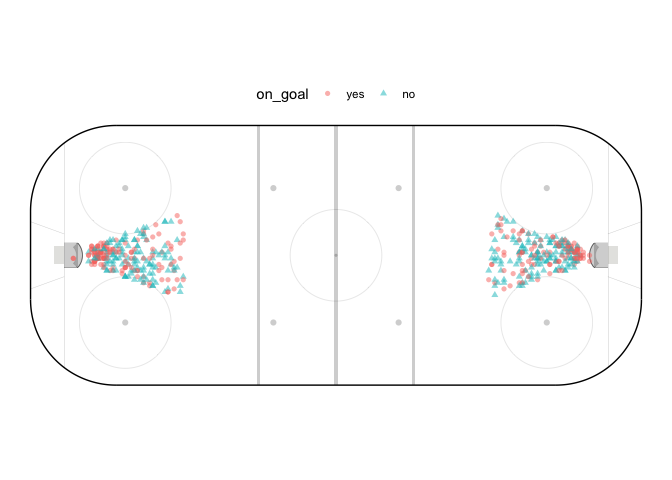
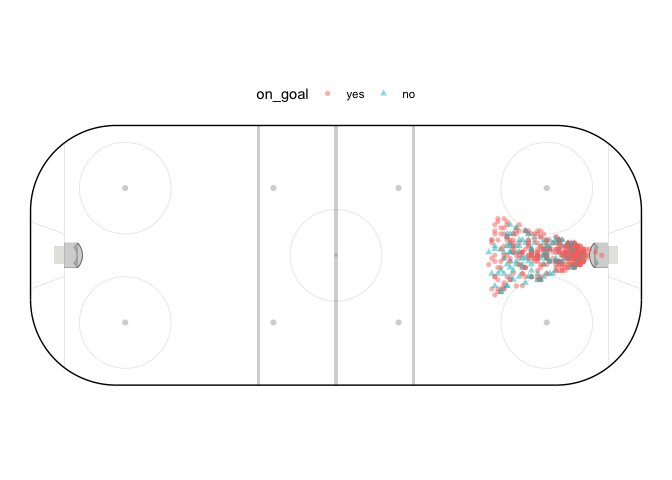
update readme

Changed region(s): [[0.7188, 0.4375, 0.9062, 0.625], [0.125, 0.4375, 0.2812, 0.625]]

diff --git a/README.md b/README.md
@@ -11,7 +11,7 @@ experimental](https://img.shields.io/badge/lifecycle-experimental-orange.svg)](h
 status](https://www.r-pkg.org/badges/version/ongoal)](https://CRAN.R-project.org/package=ongoal)
 <!-- badges: end -->
 
-ongoal makes 35572 data points available for Pittsburgh Penguins games
+ongoal makes 25324 data points available for Pittsburgh Penguins games
 where the it was determined whether a shot was on goal (i.e., made it to
 the goaltender) or not (i.e., missed or blocked). Data are from seasons
 2015-2016, 2016-2017, and 2017-2018.
@@ -36,29 +36,31 @@ Here’s a look at the data:
 ``` r
 library(ongoal)
 str(on_goal)
-#> Classes 'tbl_df', 'tbl' and 'data.frame':    35572 obs. of  22 variables:
-#>  $ on_goal          : Factor w/ 2 levels "yes","no": 1 1 1 1 1 1 1 2 1 2 ...
-#>  $ date_time        : POSIXct, format: "2018-04-11 23:08:36" "2018-04-11 23:08:48" ...
-#>  $ season           : Factor w/ 3 levels "20152016","20162017",..: 3 3 3 3 3 3 3 3 3 3 ...
-#>  $ period           : int  1 1 1 1 1 1 1 1 1 1 ...
-#>  $ period_type      : Factor w/ 3 levels "overtime","regular",..: 2 2 2 2 2 2 2 2 2 2 ...
-#>  $ coord_x          : num  63 -39 78 49 -58 50 54 70 -16 -76 ...
-#>  $ coord_y          : num  16 -26 -31 -24 20 -20 14 -37 -23 8 ...
-#>  $ game_time        : num  0.15 0.367 0.517 0.667 1.15 ...
-#>  $ strength         : Factor w/ 4 levels "even","even_short_handed",..: 1 1 1 1 1 1 1 1 1 1 ...
-#>  $ player           : Factor w/ 1468 levels "a_j_greer","aaron_ekblad",..: 579 549 229 251 1363 794 229 263 549 1102 ...
-#>  $ player_diff      : num  0 0 0 0 0 0 0 0 0 0 ...
-#>  $ offense_team     : Factor w/ 31 levels "ANA","ARI","BOS",..: 23 22 23 23 22 23 23 23 22 22 ...
-#>  $ defense_team     : Factor w/ 31 levels "ANA","ARI","BOS",..: 22 23 22 22 23 22 22 22 23 23 ...
-#>  $ offense_goal_diff: num  0 0 0 0 0 0 1 1 -1 -1 ...
-#>  $ game_type        : Factor w/ 2 levels "regular","playoff": 2 2 2 2 2 2 2 2 2 2 ...
-#>  $ position         : Factor w/ 5 levels "center","defenseman",..: 1 2 5 4 1 2 5 2 2 4 ...
-#>  $ distance         : num  30.5 56.4 32.9 46.6 36.9 ...
-#>  $ behind_goal_line : num  0 0 0 0 0 0 0 0 0 0 ...
-#>  $ angle            : num  31.6 27.5 70.5 31 32.8 ...
-#>  $ dow              : Factor w/ 7 levels "Sun","Mon","Tue",..: 4 4 4 4 4 4 4 4 4 4 ...
-#>  $ month            : Factor w/ 12 levels "Jan","Feb","Mar",..: 4 4 4 4 4 4 4 4 4 4 ...
-#>  $ year             : num  2018 2018 2018 2018 2018 ...
+#> Classes 'tbl_df', 'tbl' and 'data.frame':    25324 obs. of  24 variables:
+#>  $ season             : Factor w/ 3 levels "20152016","20162017",..: 1 1 1 1 1 1 1 1 1 1 ...
+#>  $ game_id            : int  2015020010 2015020010 2015020010 2015020010 2015020010 2015020010 2015020010 2015020010 2015020010 2015020010 ...
+#>  $ event_idx          : num  6 9 17 19 41 48 62 84 99 100 ...
+#>  $ date_time          : Factor w/ 27832 levels "2015-10-09T00:44:51Z",..: 2 3 4 5 8 9 10 12 14 15 ...
+#>  $ event              : Factor w/ 4 levels "Blocked Shot",..: 1 4 3 2 4 1 1 4 4 4 ...
+#>  $ on_goal            : Factor w/ 2 levels "yes","no": 2 1 2 1 1 2 2 1 1 1 ...
+#>  $ period             : int  1 1 1 1 1 1 1 1 1 1 ...
+#>  $ game_seconds       : num  36 47 92 99 220 252 309 427 527 541 ...
+#>  $ strength           : Factor w/ 3 levels "even","power_play",..: 3 2 2 3 3 3 3 3 3 2 ...
+#>  $ strength_state     : Factor w/ 15 levels "3v4","3v5","3v6",..: 11 14 14 11 11 11 11 11 11 14 ...
+#>  $ extra_attacker     : num  0 1 1 0 0 0 0 0 0 1 ...
+#>  $ home_skaters       : num  5 5 5 5 5 5 5 5 5 5 ...
+#>  $ away_skaters       : num  6 6 6 6 6 6 6 6 6 6 ...
+#>  $ goaltender         : Factor w/ 78 levels "aaron_dell","al_montoya",..: 11 11 11 53 53 11 11 53 53 11 ...
+#>  $ goal_difference    : num  0 0 0 1 1 -1 -1 1 1 -1 ...
+#>  $ shooter            : Factor w/ 915 levels "aaron_ekblad",..: 875 714 78 577 699 63 361 20 377 738 ...
+#>  $ shooter_team       : Factor w/ 31 levels "ANA","ARI","BOS",..: 10 23 23 10 10 10 10 10 10 23 ...
+#>  $ shooter_nationality: Factor w/ 19 levels "AUT","BLR","CAN",..: 15 19 19 18 3 9 3 19 3 19 ...
+#>  $ shooter_type       : Factor w/ 5 levels "center","defenseman",..: 5 5 5 1 4 4 4 2 1 2 ...
+#>  $ coord_x            : num  -49 64 65 80 62 -67 -58 56 50 49 ...
+#>  $ coord_y            : num  -21 -31 -21 13 15 -9 -16 25 21 5 ...
+#>  $ angle              : num  8.65 51.12 41.19 55.3 29.05 ...
+#>  $ distance           : num  139.6 39.8 31.9 15.8 30.9 ...
+#>  $ behind_goal_line   : num  0 0 0 0 0 0 0 0 0 0 ...
 ```
 
 There’s also a visualization function (based on [Bill Tran’s
